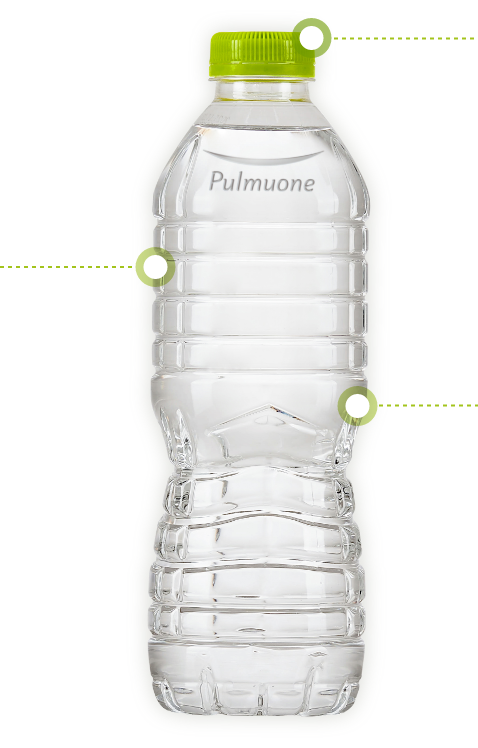
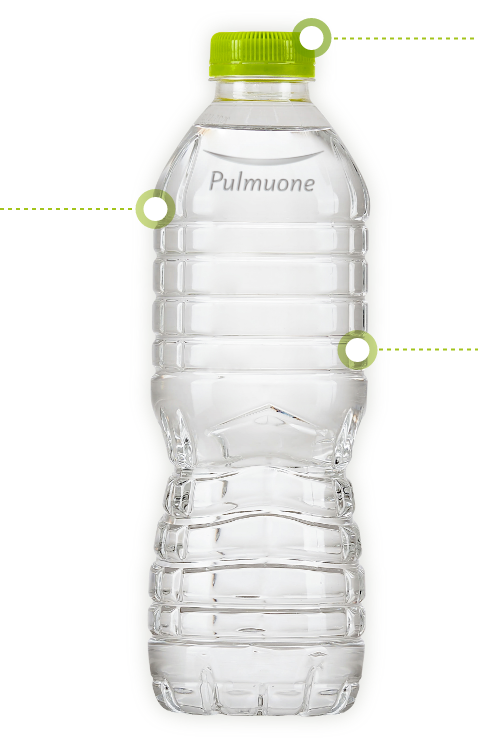
브랜드 think-green 라벨안내 순서 변경

diff --git a/src/pages/brand/T03_think-green.js b/src/pages/brand/T03_think-green.js
@@ -24,12 +24,12 @@ const ThinkGreen = () => {
           <div className={cx('center')}>
             <div className={cx(['desc', 'fisrt'])}>
               <h4>
-                <span className={cx('number')}>3</span> <span className={cx('title')}>상표띠 제거</span>
+                <span className={cx('number')}>2</span> <span className={cx('title')}>초경량 용기</span>
               </h4>
               <p>
-                비닐 사용량 15% 저감
+                2L-32.6g / 500mL-11.1g
                 <br />
-                (기존 제품 1팩 기준)
+                (1병 기준)
               </p>
             </div>
             <div className={cx(['desc', 'second'])}>
@@ -43,12 +43,12 @@ const ThinkGreen = () => {
             </div>
             <div className={cx(['desc', 'third'])}>
               <h4>
-                <span className={cx('number')}>2</span> <span className={cx('title')}>초경량 용기</span>
+                <span className={cx('number')}>3</span> <span className={cx('title')}>상표띠 제거</span>
               </h4>
               <p>
-                2L-32.6g / 500mL-11.1g
+                비닐 사용량 15% 저감
                 <br />
-                (1병 기준)
+                (기존 제품 1팩 기준)
               </p>
             </div>
             <img src={bottle} alt="" />

diff --git a/src/pages/brand/T03_think-green.module.scss b/src/pages/brand/T03_think-green.module.scss
@@ -32,16 +32,16 @@
             z-index: 3;
 
             &.fisrt {
-              left: 5%;
-              top: 33%;
+              left: 3%;
+              top: 25%;
             }
             &.second {
               top: 2%;
-              right: 0;
+              right: -2rem;
             }
             &.third {
               right: 0;
-              top: 51%;
+              top: 44%;
             }
             > h4 {
               display: flex;
